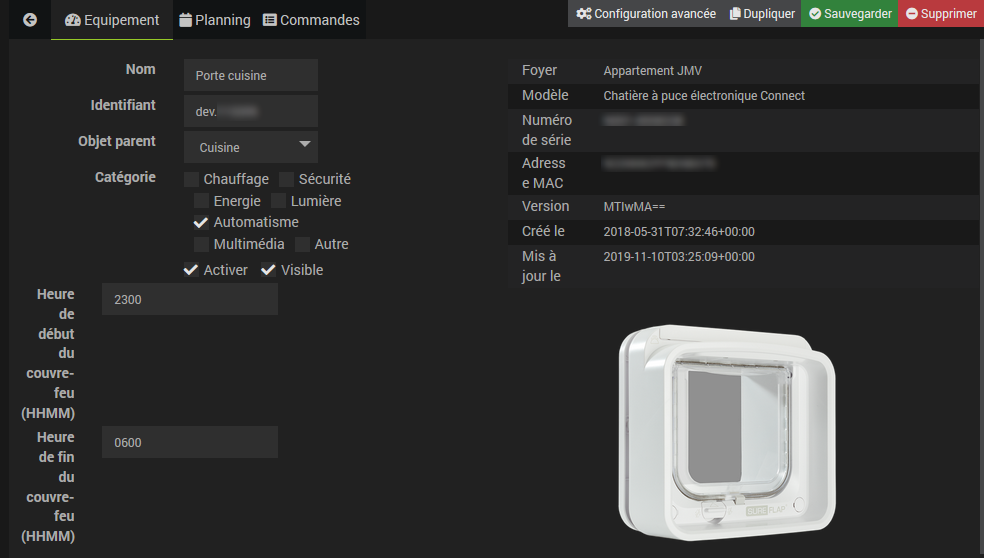
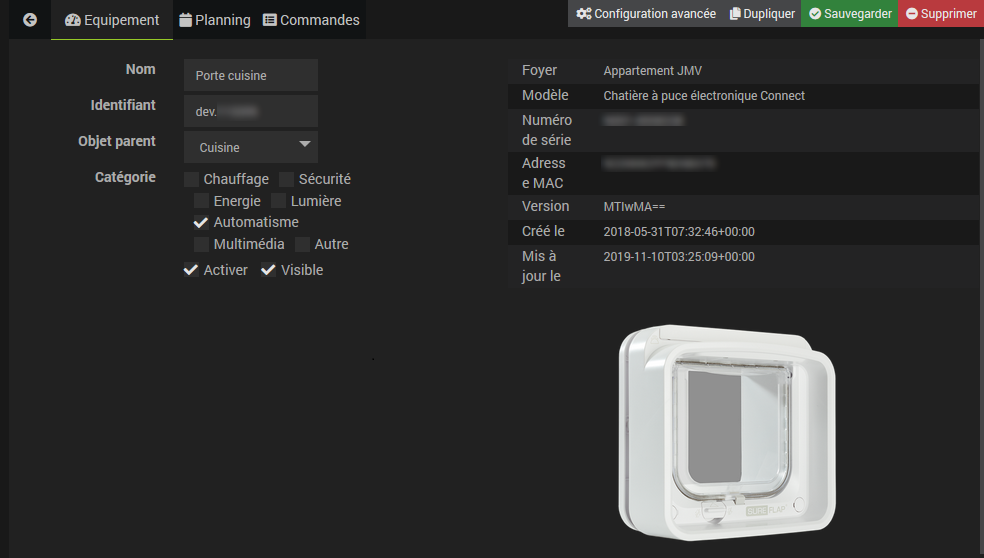
suppress obsolete fields from configuration

diff --git a/desktop/js/surepetcare.js b/desktop/js/surepetcare.js
@@ -77,13 +77,6 @@ function printEqLogic(_eqLogic) {
         printEqLogicHelper("{{Créé le}}","created_at",_eqLogic);
         printEqLogicHelper("{{Mis à jour le}}","updated_at",_eqLogic);
         $('#img_device').attr("src", 'plugins/surepetcare/core/config/images/device'+_eqLogic.configuration.product_id+'.png');
-        if (_eqLogic.configuration.product_id == 3 || _eqLogic.configuration.product_id == 6) {
-            $('#curfew_lock_time').show();
-            $('#curfew_unlock_time').show();
-        } else {
-            $('#curfew_lock_time').hide();
-            $('#curfew_unlock_time').hide();
-        }
     }
     if (_eqLogic.configuration.type=="pet") {
         printEqLogicHelper("{{Poids (kg)}}","weight",_eqLogic);

diff --git a/desktop/php/surepetcare.php b/desktop/php/surepetcare.php
@@ -140,20 +140,6 @@ $eqLogics = eqLogic::byType($plugin->getId());
 									<label class="checkbox-inline"><input type="checkbox" class="eqLogicAttr" data-l1key="isVisible" checked>{{Visible}}</label>
 									</div>
 								</div>
-                                <div class="form-group" id="curfew_lock_time" >
-								    <label class="col-sm-2 control-label">{{Heure de début du couvre-feu (HHMM)}}
-								    </label>
-								    <div class="col-sm-5">
-									    <input type="text" class="eqLogicAttr form-control" data-l1key="configuration" data-l2key="lock_time" placeholder="{{Heure de début (HHMM)}}"/>
-								    </div>
-							    </div>
-                                <div class="form-group" id="curfew_unlock_time" >
-								    <label class="col-sm-2 control-label">{{Heure de fin du couvre-feu (HHMM)}}
-								    </label>
-								    <div class="col-sm-5">
-									    <input type="text" class="eqLogicAttr form-control" data-l1key="configuration" data-l2key="unlock_time" placeholder="{{Heure de fin (HHMM)}}"/>
-								    </div>
-							    </div>
 							</fieldset>
 						</form>
 					</div>
